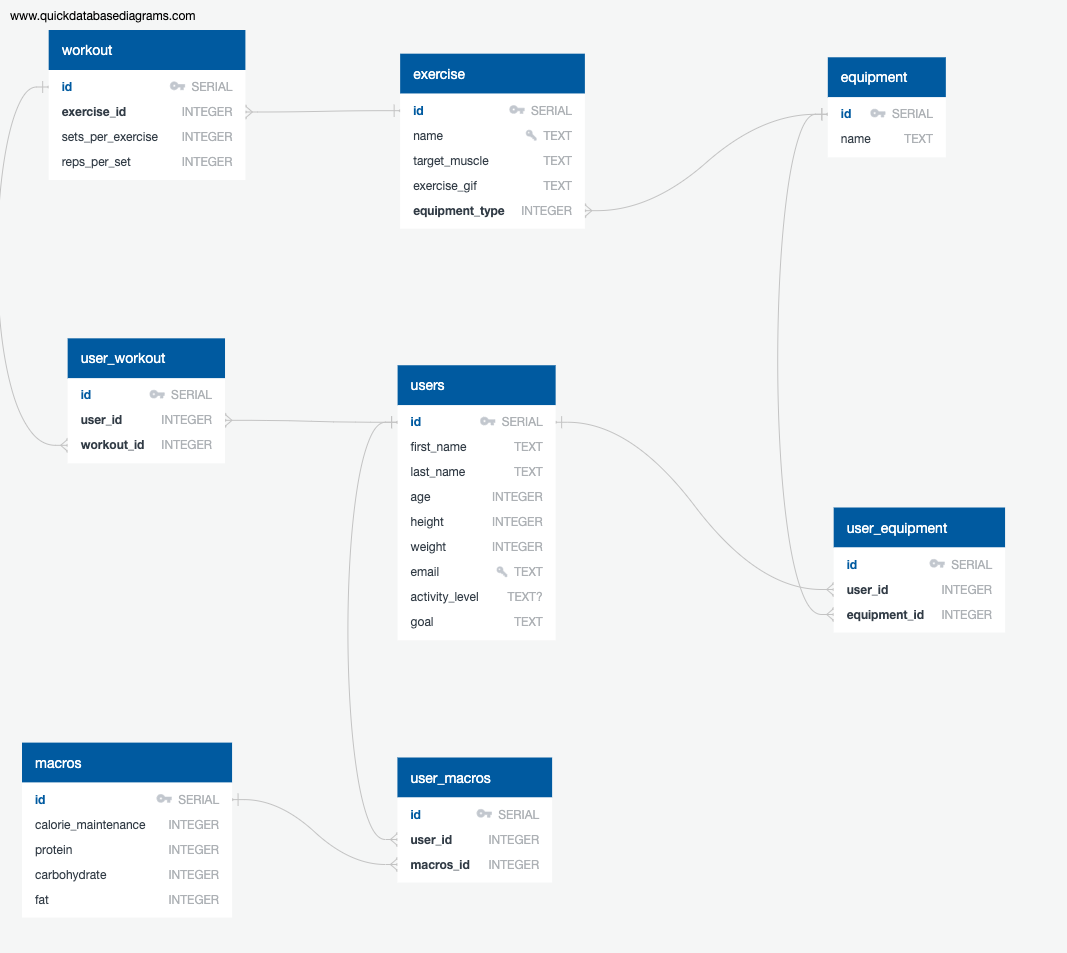
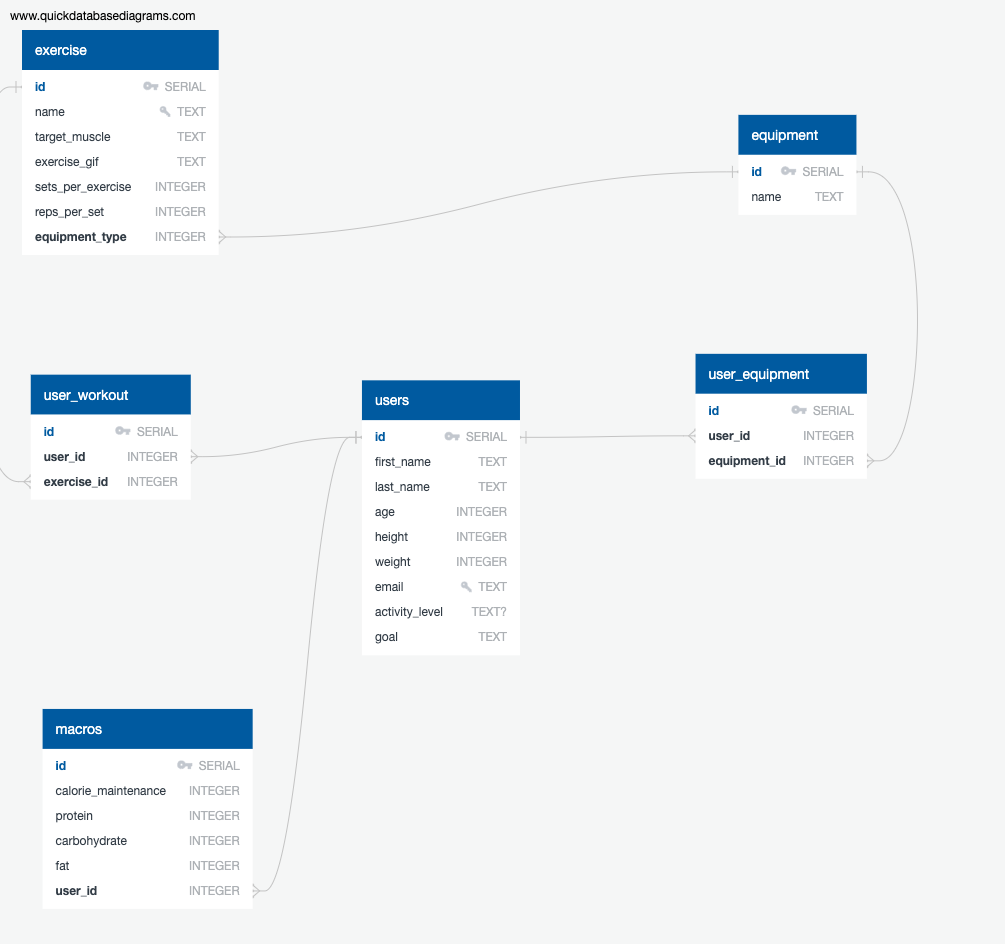
Fixed Database schema.

diff --git a/models.py b/models.py
@@ -32,12 +32,6 @@ class User(db.Model):
 
     goal = db.Column(db.Text, nullable = False)
 
-    equipment_id = db.Column(db.Integer, db.ForeignKey('equipment.id', ondelete='cascade'))
-
-    user_workout_id = db.Column(db.Integer, db.ForeignKey('user_workout.id', ondelete='cascade'))
-
-    macros_id = db.Column(db.Integer, db.ForeignKey('macros.id', ondelete='cascade'))
-
 
 
 class Equipment(db.Model):
@@ -49,19 +43,17 @@ class Equipment(db.Model):
 
     name = db.Column(db.Text, nullable = False, unique = True)
 
-    user_id = db.Column(db.Integer, db.ForeignKey('users.id', ondelete = 'cascade'))
 
+class User_Equipment(db.Model):
+    """The equipment type that user will use."""
 
-
-class Muscle_Group(db.Model):
-    """An individual muscle group."""
-
-    __tablename__ = 'muscle_group'
+    __tablename__ = 'user_equipment'
 
     id = db.Column(db.Integer, primary_key = True)
 
-    name = db.Column(db.Text, nullable = False, unique = True)
+    user_id = db.Column(db.Integer, db.ForeignKey('users.id', ondelete = 'cascade'))
 
+    equipment_id = db.Column(db.Integer, db.ForeignKey('equipment.id', ondelete = 'cascade'))
 
 
 class Exercise(db.Model):
@@ -73,22 +65,26 @@ class Exercise(db.Model):
 
     name = db.Column(db.Text, nullable = False)
 
-    equipment_type = db.Column(db.Text, nullable = False)
+    target_muscle = db.Column(db.Text, nullable = False)
 
-
-
-class User_Workout(db.Model):
-    """"A workout that is generated for a user based off their user information and responses to the questionnaire"""
-
-    __tablename__ = 'user_workout'
-
-    id = db.Column(db.Integer, primary_key = True)
+    exercise_gif = db.Column(db.Text)
 
     sets_per_exercise = db.Column(db.Integer, nullable = False)
 
     reps_per_set = db.Column(db.Integer, nullable = False)
 
-    exercise_id = db.Column(db.Integer, db.ForeignKey('exercise.id', ondelete='cascade'))
+    equipment_type = db.Column(db.Integer, db.ForeignKey('equipment.id', ondelete='cascade'))
+
+
+class User_Workout(db.Model):
+    """A table that stores an individual user's exercises."""
+    __tablename__ = 'user_workout'
+
+    id = db.Column(db.Integer, primary_key = True)
+
+    user_id = db.Column(db.Integer, db.ForeignKey('users.id', ondelete = 'cascade'))
+
+    exercise_id = db.Column(db.Integer, db.ForeignKey('exercise.id', ondelete = 'cascade'))
 
 
 
@@ -107,6 +103,7 @@ class Macros(db.Model):
 
     fat = db.Column(db.Integer, nullable = False)
 
+    user_id = db.Column(db.Integer, db.ForeignKey('users.id', ondelete = 'cascade'))
 
 
 def connect_db(app):

diff --git a/app.py b/app.py
@@ -3,7 +3,7 @@ import requests
 import json
 from flask import Flask, request,  render_template, redirect, flash, session
 from flask_debugtoolbar import DebugToolbarExtension
-from models import db, connect_db, User, Equipment, Muscle_Group, Exercise, User_Workout, Macros
+from models import db, connect_db, User, Equipment, User_Equipment, Exercise, User_Workout, Macros
 
 app = Flask(__name__)
 
@@ -29,18 +29,10 @@ headers = {
 	"X-RapidAPI-Key": "7ddbb671c3msh5ac6eca10dce7d9p1c4f61jsna698597b6a3f"
 }
 
-def fetch_data(option='/'):
-    
-    print(data)
-
-
 
 ###############################################
 # Homepage route
 
 @app.route('/')
 def home():
-    response = requests.request("GET", f"{API_BASE_URL}/exercises/equipmentList", headers=headers)
-    data = response.json()
-    print(data)
-    return render_template('index.html', data=data)
+    return render_template('index.html')
